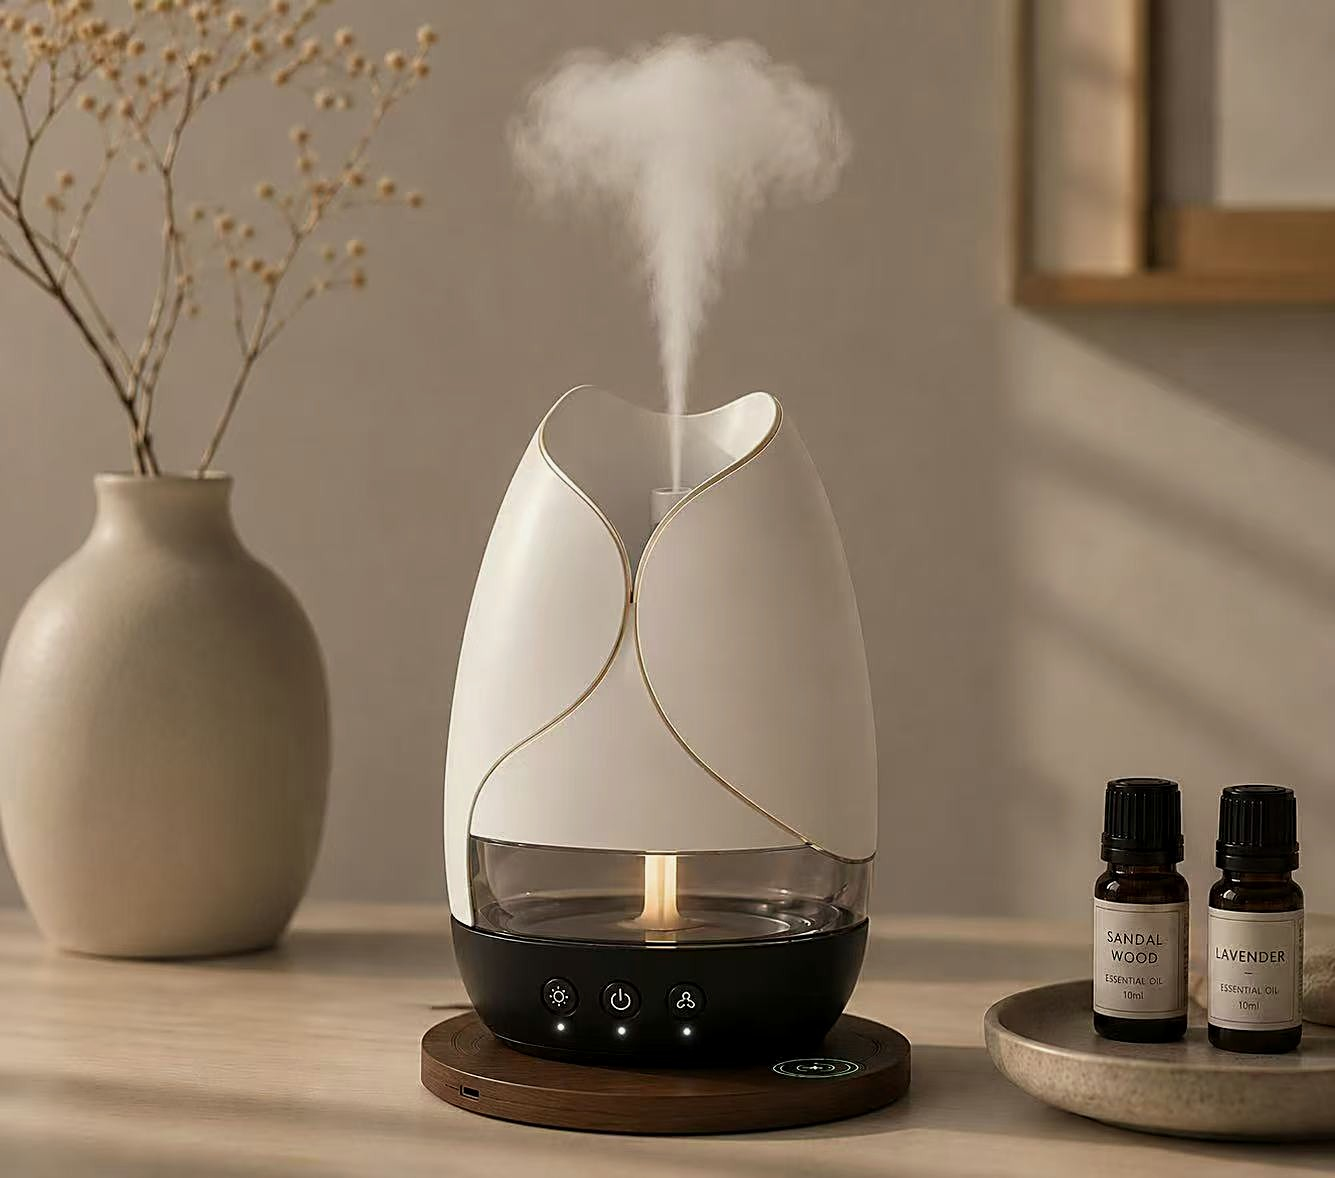
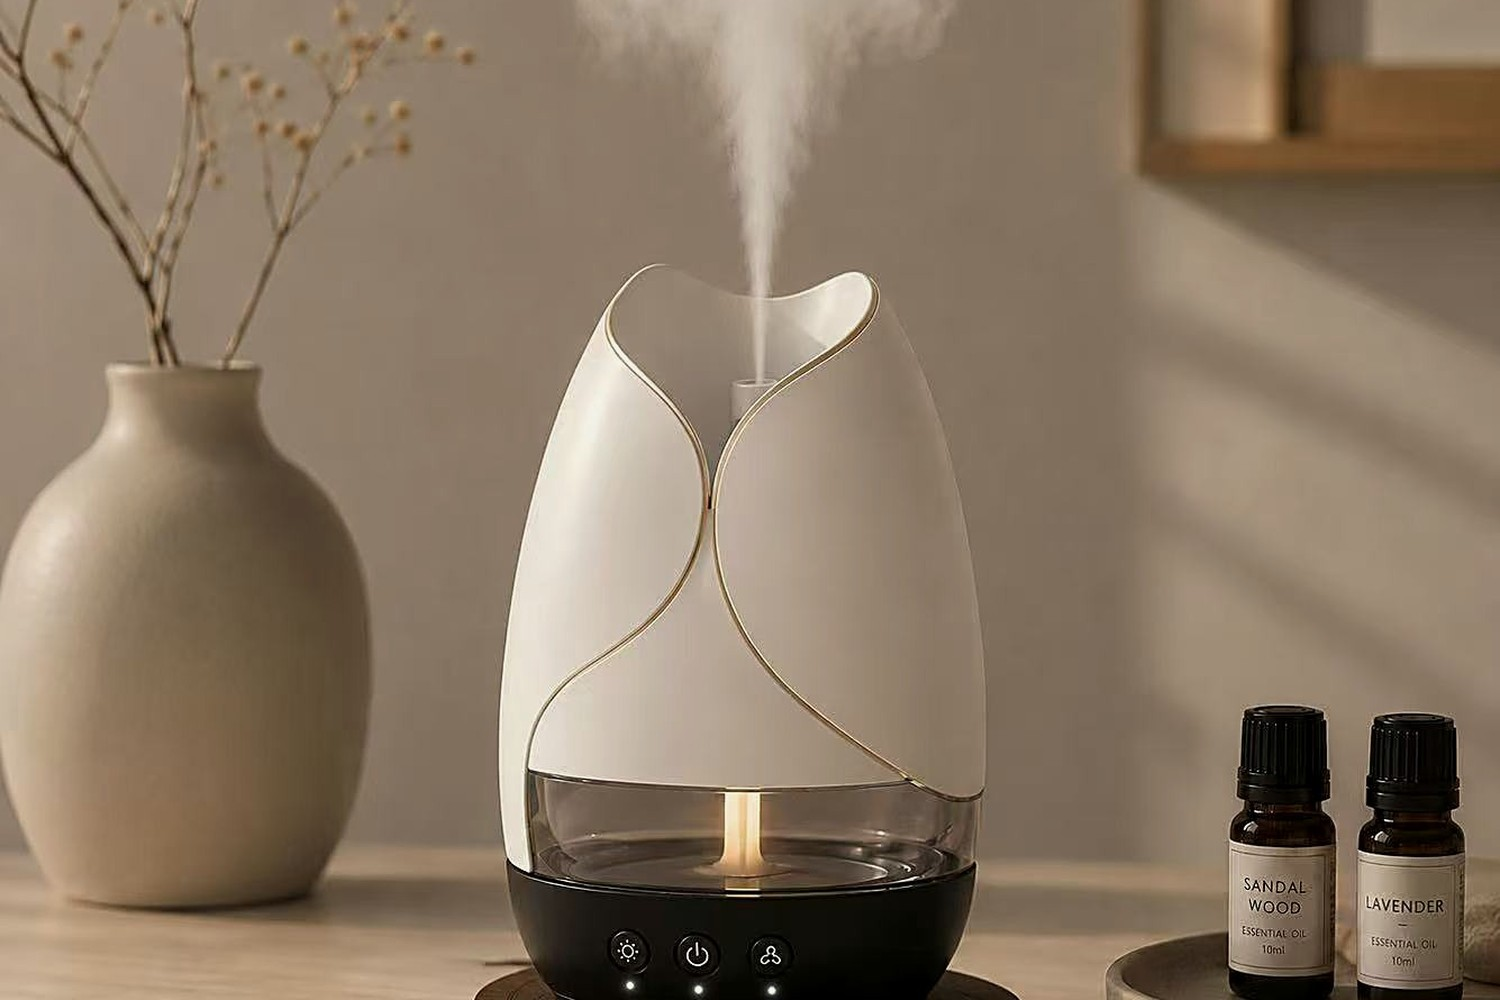
style: 首页项目卡恢复静态封面（视频仅详情页）；三张封面统一为 1500x1000（3:2，焦点保留：calm 裁两侧保小孩、aroma 裁上下保机身）

diff --git a/src/components/Works.jsx b/src/components/Works.jsx
@@ -113,7 +113,7 @@ export default function Works({ onOpen }) {
               onKeyDown={(e) => { if (e.key === 'Enter' && onOpen) onOpen(p.id) }}
             >
               <div className={`work-cover${p.coverImg ? ' has-img' : ''}`}>
-                <Cover variant={p.cover} accent={p.accent} img={p.coverImg} video={p.coverVideo} />
+                <Cover variant={p.cover} accent={p.accent} img={p.coverImg} />
               </div>
               <div className="work-info">
                 <div className="work-top">
